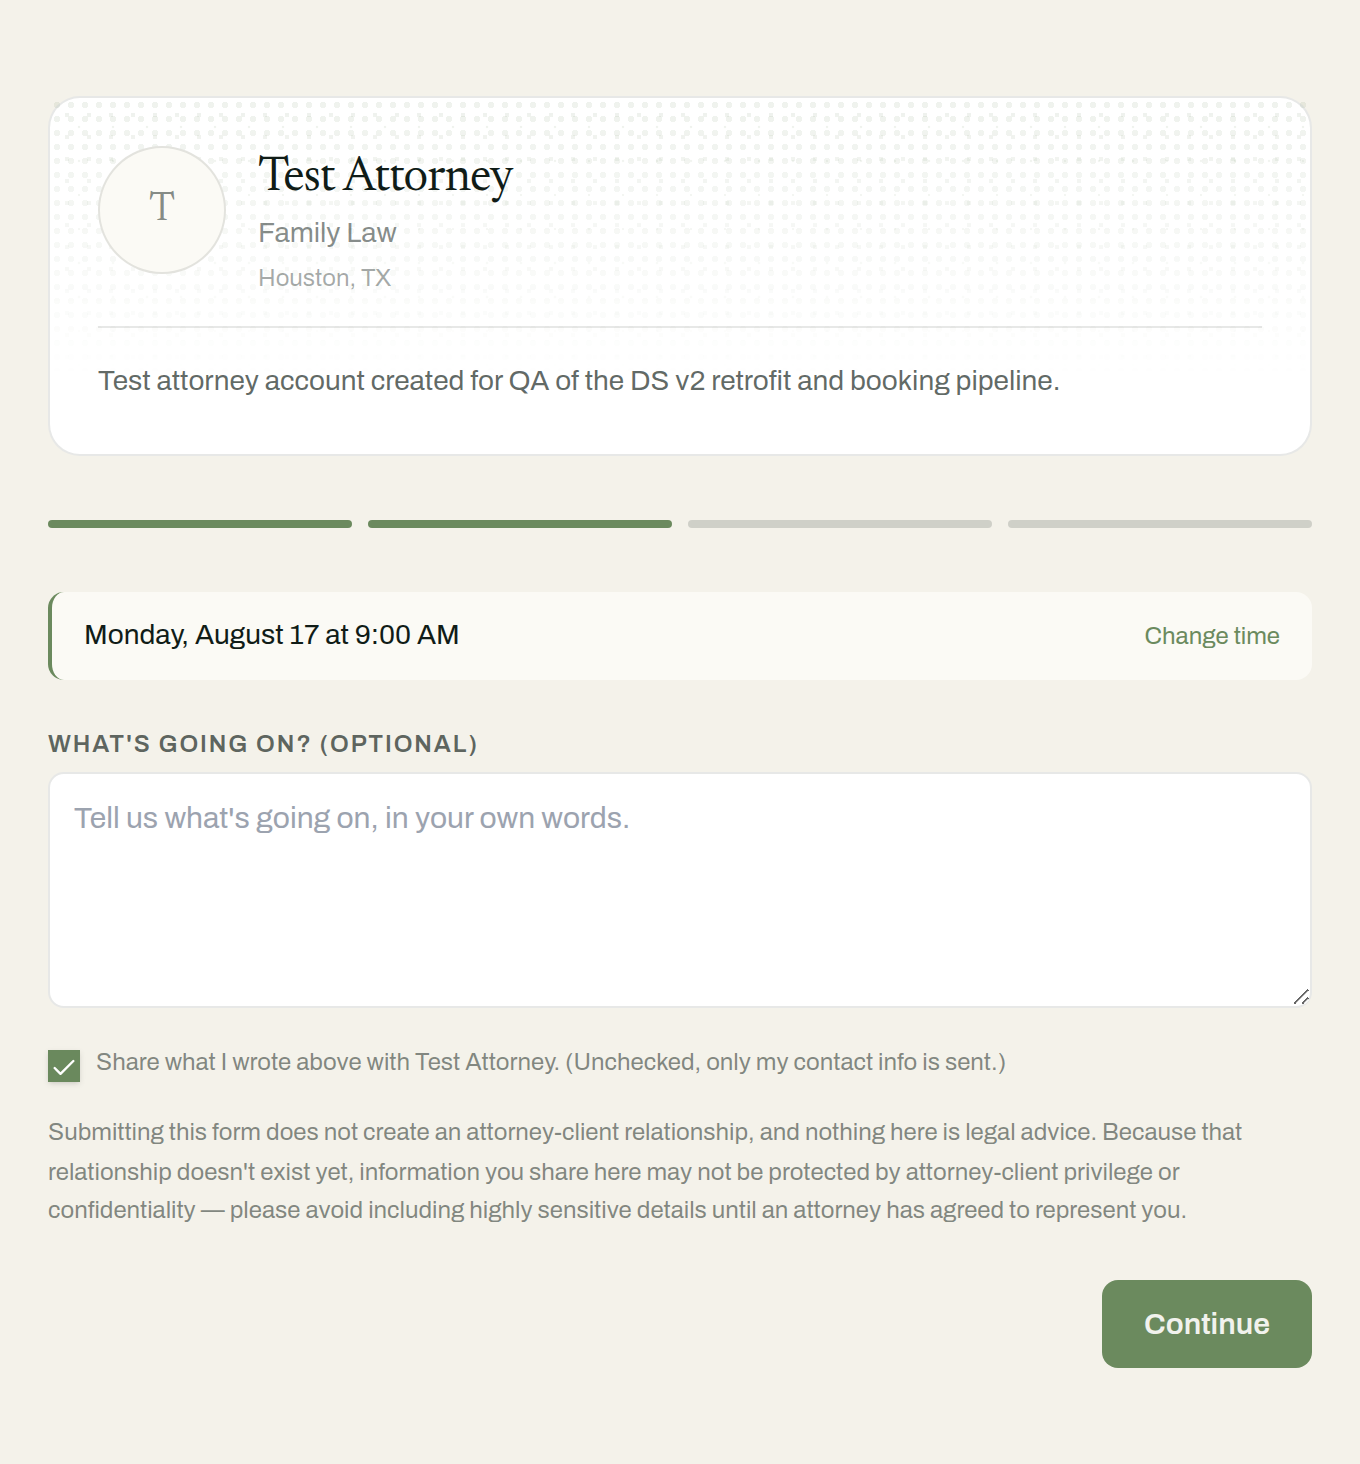
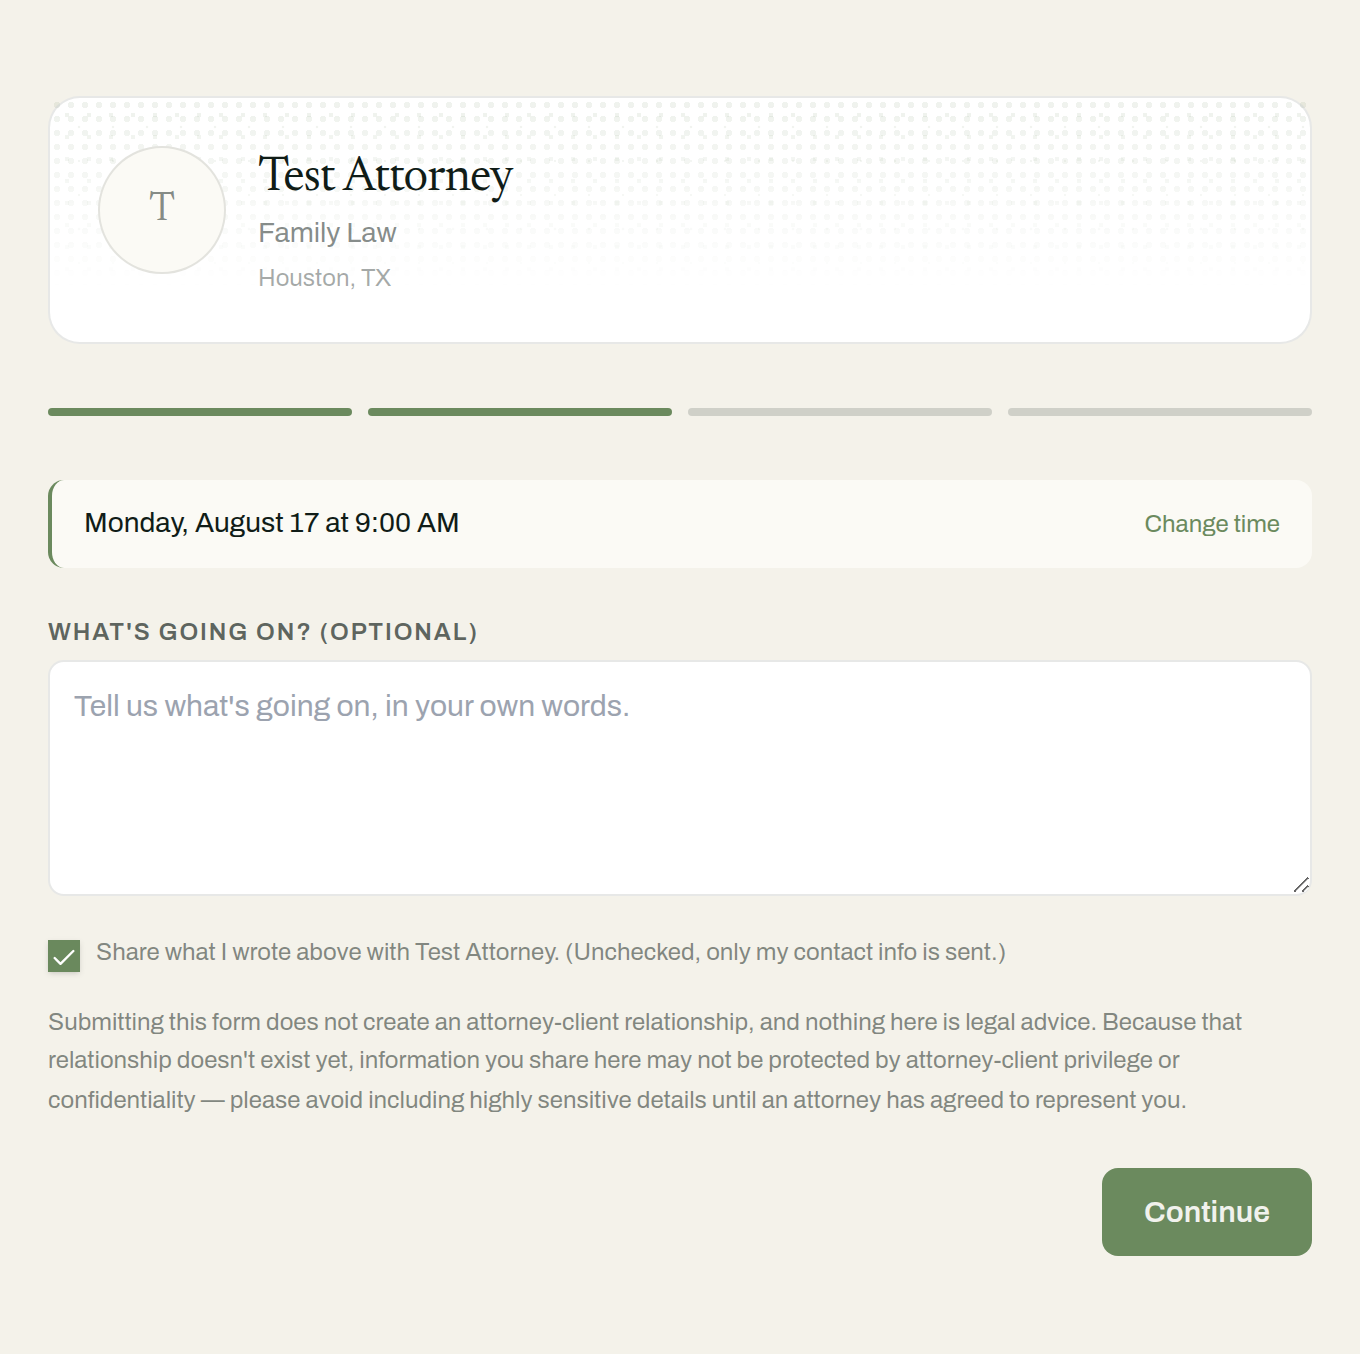
Tighten the attorney walkthrough to two frames and redact QA copy
Drop the empty Frame 3. Crop Frame 1 to the profile card and the first
day of times, hide the Test Attorney QA bio on both shots, merge the
Help cost questions, and cut “marketplace costume” from About.

diff --git a/src/pages/ForAttorneys.jsx b/src/pages/ForAttorneys.jsx
@@ -1,4 +1,3 @@
-import { useState } from 'react';
 import { Link } from 'react-router-dom';
 import Header from '@/components/layout/Header';
 import Footer from '@/components/layout/Footer';
@@ -20,19 +19,18 @@ const FRAMES = [
     caption: 'This is what they see.',
     line: 'They describe the matter and pick a time that is actually open.',
   },
-  {
-    src: null,
-    alt: 'A booked client on the attorney’s Brief desk',
-    caption: 'This is what you get.',
-    line: 'A pre-screened client, on your calendar.',
-  },
 ];
 
 function WalkthroughFrame({ src, alt, caption, line }) {
   return (
     <section className="py-16 lg:py-24 px-6 lg:px-8" style={FADE}>
       <div className="max-w-[1000px] mx-auto">
-        <FrameShot src={src} alt={alt} />
+        <img
+          src={src}
+          alt={alt}
+          className="w-full rounded-[var(--radius-m)] border border-[var(--line)]"
+          style={{ boxShadow: 'var(--shadow-raised)' }}
+        />
         <p className="text-[11px] uppercase tracking-[0.14em] text-[var(--text-3)] font-body mt-6 mb-2">
           {caption}
         </p>
@@ -41,31 +39,6 @@ function WalkthroughFrame({ src, alt, caption, line }) {
         </p>
       </div>
     </section>
-  );
-}
-
-function FrameShot({ src, alt }) {
-  const [failed, setFailed] = useState(!src);
-
-  if (failed) {
-    return (
-      <div
-        className="w-full aspect-[4/3] rounded-[var(--radius-m)] border border-[var(--line)] bg-[var(--surface)]"
-        style={{ boxShadow: 'var(--shadow-raised)' }}
-        role="img"
-        aria-label={alt}
-      />
-    );
-  }
-
-  return (
-    <img
-      src={src}
-      alt={alt}
-      className="w-full rounded-[var(--radius-m)] border border-[var(--line)]"
-      style={{ boxShadow: 'var(--shadow-raised)' }}
-      onError={() => setFailed(true)}
-    />
   );
 }
 

diff --git a/src/pages/About.jsx b/src/pages/About.jsx
@@ -27,7 +27,7 @@ export default function About() {
               Brief lists attorneys for a flat monthly fee. There is no per-booking cut, no pay-per-lead auction, and no referral fee dressed up as software. Education on the consumer side stays free. We do not recommend or endorse any attorney. We do not give legal advice. Brief is an advertising platform, not a law firm and not a lawyer referral service.
             </p>
             <p>
-              We are starting in Houston. Family law, immigration, and business formation first. The product is the desk, not a marketplace costume.
+              We are starting in Houston. Family law, immigration, and business formation first. The product is the desk.
             </p>
             <p>
               If you want to see the desk:{' '}

diff --git a/src/pages/Help.jsx b/src/pages/Help.jsx
@@ -8,15 +8,7 @@ const QUESTIONS = [
     q: 'What does Brief cost?',
     a: (
       <>
-        A flat monthly fee for the practice. The listed price is $199 a month. You are not charged a percentage of the consultation and you are not charged per booking.
-      </>
-    ),
-  },
-  {
-    q: 'Is there a per-booking cut?',
-    a: (
-      <>
-        No. Attorneys pay to be listed. Brief does not take a cut of the consultation fee and does not run pay-per-lead auctions.
+        A flat monthly fee for the practice. The listed price is $199 a month. You are not charged a percentage of the consultation, and there is no per-booking cut — Brief does not run pay-per-lead auctions.
       </>
     ),
   },
